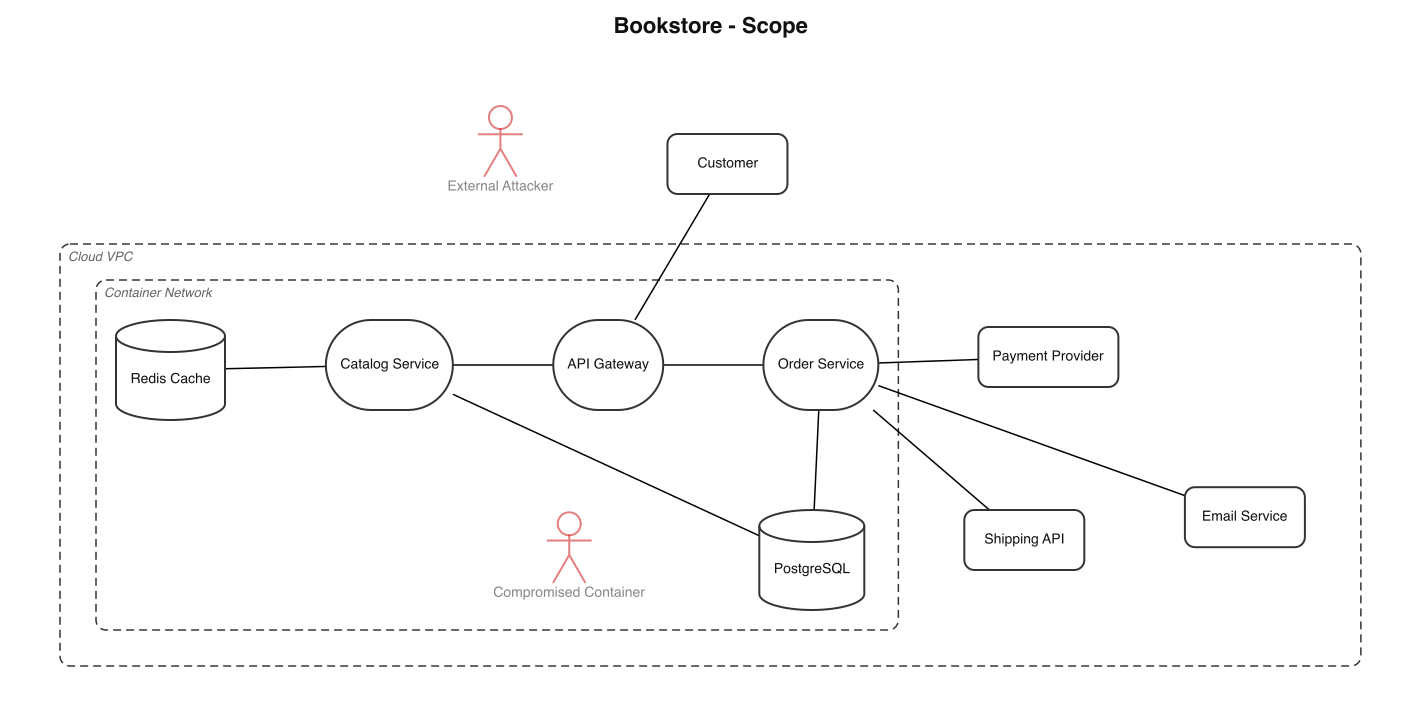
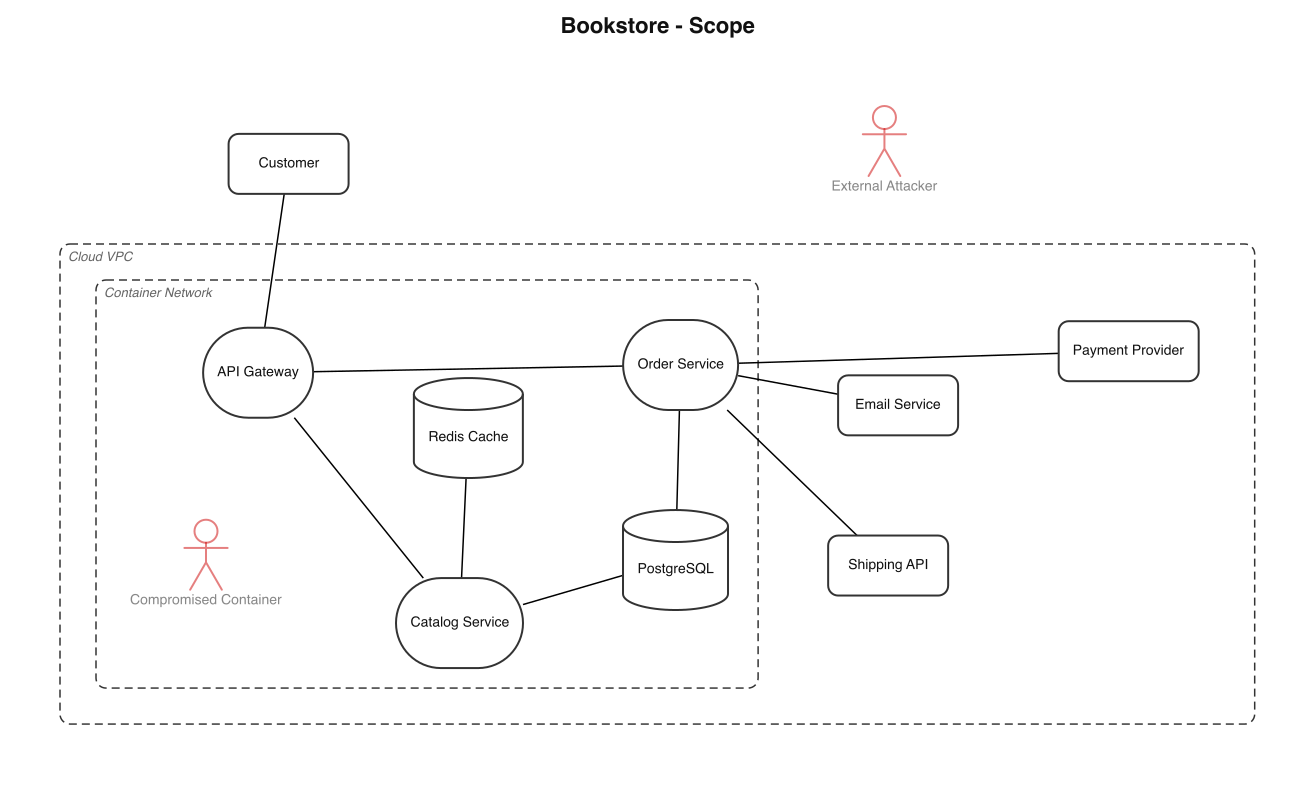
improve clearance between lines and nodes

diff --git a/tests/layout.test.ts b/tests/layout.test.ts
@@ -130,6 +130,29 @@ function properSegmentsCross(
   return a1 * a2 < 0 && b1 * b2 < 0;
 }
 
+function pointToSegmentDistance(
+  point: { x: number; y: number },
+  segment: { x1: number; y1: number; x2: number; y2: number },
+) {
+  const dx = segment.x2 - segment.x1;
+  const dy = segment.y2 - segment.y1;
+  const lengthSquared = dx * dx + dy * dy;
+  const projection = lengthSquared
+    ? Math.max(
+        0,
+        Math.min(
+          1,
+          ((point.x - segment.x1) * dx + (point.y - segment.y1) * dy) /
+            lengthSquared,
+        ),
+      )
+    : 0;
+  return Math.hypot(
+    point.x - (segment.x1 + projection * dx),
+    point.y - (segment.y1 + projection * dy),
+  );
+}
+
 describe("solveLayout", () => {
   it("compacts the aligned filesystem row toward the API", () => {
     const { nodes, indexById, result } = solveGraphFixture(
@@ -296,6 +319,26 @@ constraints {
       y2: nodes[2].y,
     };
     expect(properSegmentsCross(first, second)).toBe(false);
+    for (const [edgeIndex, edge] of edges.entries()) {
+      const segment = edgeIndex === 0 ? first : second;
+      const length = Math.hypot(
+        segment.x2 - segment.x1,
+        segment.y2 - segment.y1,
+      );
+      const normal = {
+        x: -(segment.y2 - segment.y1) / length,
+        y: (segment.x2 - segment.x1) / length,
+      };
+      for (const [nodeIndex, current] of nodes.entries()) {
+        if (nodeIndex === edge.source || nodeIndex === edge.target) continue;
+        const projectedHalfExtent =
+          Math.abs(normal.x) * (current.width / 2) +
+          Math.abs(normal.y) * (current.height / 2);
+        expect(pointToSegmentDistance(current, segment)).toBeGreaterThanOrEqual(
+          projectedHalfExtent + 8 - 0.02,
+        );
+      }
+    }
   });
 
   it("places labels away from nodes and records snapshots at the requested cadence", () => {
@@ -530,28 +573,9 @@ constraints {
     // free axis. Minimization should spend that freedom levelling the spoke,
     // not leaving the node stranded diagonally.
     expect(n1.x).toBeGreaterThan(hub.x + 1);
-    expect(Math.abs(n1.y - hub.y)).toBeLessThan(n1.height);
+    expect(Math.abs(n1.y - hub.y)).toBeLessThanOrEqual(n1.height);
     expect(n3.y).toBeGreaterThan(hub.y + 1);
     expect(n3.x).toBeLessThan(hub.x - 1);
-    // Eight spokes cannot all clear the minimum angular gap, so this hub keeps a
-    // large residual angular error however it is drawn. Minimization still has
-    // to compact it rather than abandoning the cycle over that error moving.
-    const totalSpokeLength = [
-      "n1",
-      "n2",
-      "n3",
-      "n4",
-      "n5",
-      "n6",
-      "wide",
-      "tiny",
-    ]
-      .map((id) => nodes[indexById.get(id) as number])
-      .reduce(
-        (sum, spoke) => sum + Math.hypot(spoke.x - hub.x, spoke.y - hub.y),
-        0,
-      );
-    expect(totalSpokeLength).toBeLessThan(3000);
   });
 
   it("solves bookstore UC2 with merged multiline edge labels", () => {

diff --git a/src/layout.ts b/src/layout.ts
@@ -168,6 +168,7 @@ function alignedNodes(
 }
 
 const EPSILON = 0.01;
+const NODE_EDGE_CLEARANCE = 8;
 
 function rectanglesOverlap(a: LayoutRect, b: LayoutRect): boolean {
   return (
@@ -831,13 +832,14 @@ function resolveNodeEdgeIntersections(ctx: LayoutContext) {
     for (let index = 0; index < ctx.nodes.length; index++) {
       if (index === source || index === target) continue;
       const node = ctx.nodes[index];
-      if (!segmentIntersectsRect(segment, nodeRect(node, 2))) continue;
+      if (!segmentIntersectsRect(segment, nodeRect(node, NODE_EDGE_CLEARANCE)))
+        continue;
       const distance = signedDistance(node, segment);
       const projectedHalfExtent =
         Math.abs(normal.x) * (node.width / 2) +
         Math.abs(normal.y) * (node.height / 2);
       const movement = Math.max(
-        projectedHalfExtent + ctx.options.nodeGap / 2 - Math.abs(distance) + 2,
+        projectedHalfExtent + Math.abs(distance) + NODE_EDGE_CLEARANCE,
         4,
       );
       const preferredDirection =
@@ -881,7 +883,11 @@ function resolveNodeEdgeIntersections(ctx: LayoutContext) {
             })),
           ),
         ],
-        () => !segmentIntersectsRect(edgeSegment(edge, ctx), nodeRect(node, 2)),
+        () =>
+          !segmentIntersectsRect(
+            edgeSegment(edge, ctx),
+            nodeRect(node, NODE_EDGE_CLEARANCE),
+          ),
       );
     }
   }
@@ -1196,7 +1202,12 @@ function collectViolations(
     const segment = edgeSegment(edge, ctx);
     for (let index = 0; index < ctx.nodes.length; index++) {
       if (index === source || index === target) continue;
-      if (segmentIntersectsRect(segment, nodeRect(ctx.nodes[index], 2))) {
+      if (
+        segmentIntersectsRect(
+          segment,
+          nodeRect(ctx.nodes[index], NODE_EDGE_CLEARANCE),
+        )
+      ) {
         add(`edge ${edgeIndex + 1} intersects node ${ctx.nodes[index].id}`);
       }
     }
